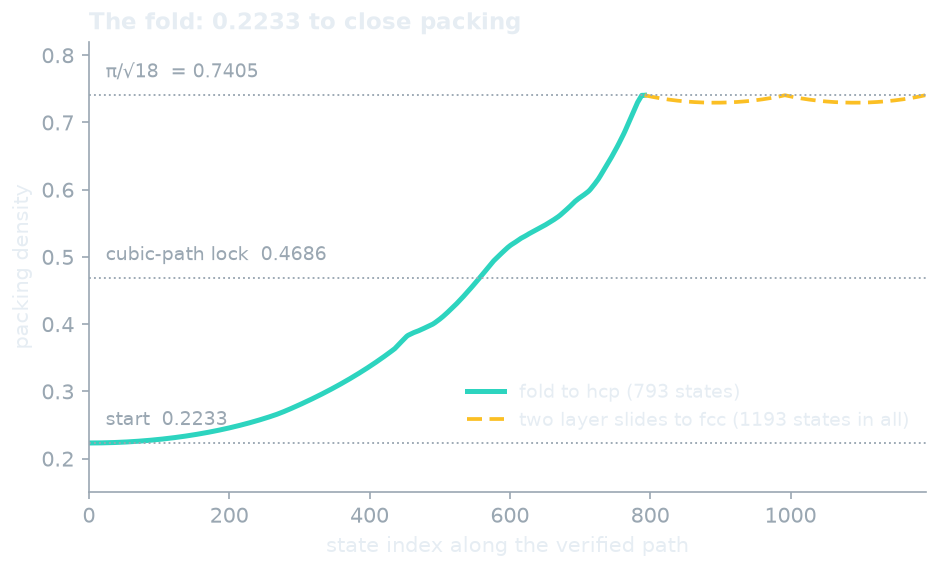
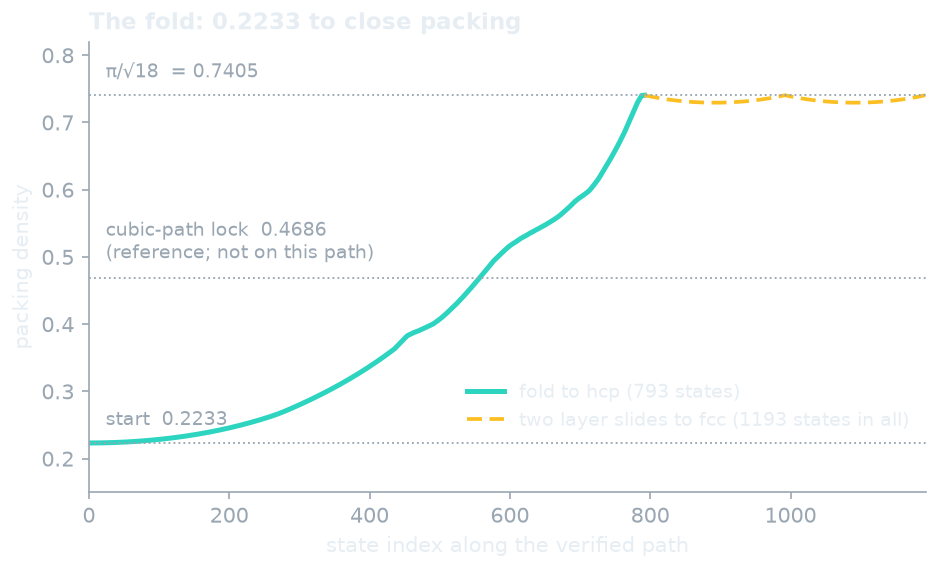
Clarify fold figure labels: cubic-path lock is a reference, not on the path

Changed region(s): [[0.1238, 0.3884, 0.4023, 0.478]]

diff --git a/docs/img/make_readme_figures.py b/docs/img/make_readme_figures.py
@@ -149,7 +149,7 @@ def fig_fold(t):
     ax.plot(np.arange(n_h), d_hcp, color=t["teal"], lw=2.4, label=f"fold to hcp ({n_h} states)")
     ax.plot(np.arange(n_h - 1, len(d_fcc)), d_fcc[n_h - 1:], color=t["amber"], lw=1.8, ls=(0, (4, 2)),
             label=f"two layer slides to fcc ({len(d_fcc)} states in all)")
-    for y, lab, dy in ((d_hcp[0], f"start  {d_hcp[0]:.4f}", 0.02), (lock, f"cubic-path lock  {lock:.4f}", 0.02),
+    for y, lab, dy in ((d_hcp[0], f"start  {d_hcp[0]:.4f}", 0.02), (lock, f"cubic-path lock  {lock:.4f}\n(reference; not on this path)", 0.02),
                        (KEPLER, "π/√18  = 0.7405", 0.02)):
         ax.axhline(y, color=t["muted"], lw=0.9, ls=":")
         ax.text(len(d_fcc) * 0.02, y + dy, lab, color=t["muted"], fontsize=9, va="bottom")
@@ -282,7 +282,7 @@ def fig_frames(t):
     Ls, Xs = hcp["Ls"], hcp["Xs"]
     d = density(Ls)
     lock = 27 * np.pi * np.sqrt(2) / 256
-    picks = [(0, "start"), (int(np.argmax(d >= lock)), "at the cubic-path lock value"),
+    picks = [(0, "start"), (int(np.argmax(d >= lock)), "passing density 0.469 (free continuation)"),
              (len(d) - 1, "end: hcp")]
     rot = np.array([[0.866, 0.0, -0.5], [0.25, 0.866, 0.433], [0.433, -0.5, 0.75]])  # fixed view
     fig, axs = plt.subplots(1, 3, figsize=(9.6, 3.4))

diff --git a/README.md b/README.md
@@ -57,12 +57,12 @@ Every number drawn below is read from the committed certificates and path files 
 
 <picture>
   <source media="(prefers-color-scheme: dark)" srcset="docs/img/fold-density-dark.png">
-  <img src="docs/img/fold-density-light.png" alt="Packing density along the verified fold path of 793 states, rising from 0.2233 to pi over root 18, 0.7405, for hcp. Dotted lines mark the start 0.2233, the cubic-path lock 0.4686 and pi over root 18. A dashed amber continuation shows the two layer slides to fcc, 1193 states in all, which dip to about 0.729 and return to 0.7405.">
+  <img src="docs/img/fold-density-light.png" alt="Packing density along the verified fold path of 793 states, rising from 0.2233 to pi over root 18, 0.7405, for hcp. Dotted lines mark the start 0.2233, the cubic-path lock 0.4686 (a reference value, not a state on this path) and pi over root 18. A dashed amber continuation shows the two layer slides to fcc, 1193 states in all, which dip to about 0.729 and return to 0.7405.">
 </picture>
 
 <picture>
   <source media="(prefers-color-scheme: dark)" srcset="docs/img/fold-frames-dark.png">
-  <img src="docs/img/fold-frames-light.png" alt="Three frames of the 2 by 2 by 2 cell of 48 balls along the verified path: the start at density 0.2233, a state at density 0.4690, and the end state hcp at density 0.7405. The cell is drawn to the same scale in each frame.">
+  <img src="docs/img/fold-frames-light.png" alt="Three frames of the 2 by 2 by 2 cell of 48 balls along the verified path: the start at density 0.2233, a state passing density 0.469 on the free continuation (the path is not the cubic-restricted one), and the end state hcp at density 0.7405. The cell is drawn to the same scale in each frame.">
 </picture>
 
 <picture>
